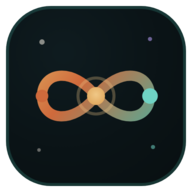
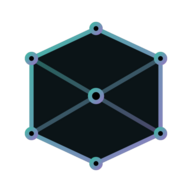
fix(brand): reemplaza lemniscata por isotipo Nómos, corrige bugs WCAG/SEO/tildes
- Sustituye icon.svg (lemniscata personal → hexágono § de Nómos)
- Copia brand assets eikon: favicon multi-size ICO (16/32/48/64), apple-touch-icon-180x180, favicon-32x32, icon-192 (192px), icon-512, og-image 1200×630
- Actualiza images/logo.png → lockup_horizontal Mouseîon (1.8 KB, desde 245 KB)
- Sincroniza assets b64 embebidos en api/index.py con nuevas imágenes de marca
- Añade rutas /site.webmanifest y /images/logo.png en api/index.py (fix 404 producción)
- Actualiza vercel.json regex para servir site.webmanifest, favicon-32x32.png y apple-touch-icon-180x180.png como estáticos
- Corrige tildes en templates: Cámara/Senado/País/Páginas/Institución/Aún/más/Filosofía/Ingeniería
- Corrige tildes en adapters.py: labels y campos institution/country de todas las fuentes
- Sustituye comentarios CSS "ScrapeKit Colombia" → "Nómos · Mouseîon"
- Fix focus ring: --ring: #43b5a6 → #1a5c54 (contraste 3.08:1 sobre #FBFAF6, pasa WCAG 2.4.7)
- Fix wordmark-tag: color opacidad 0.72 → full #43b5a6 (pasa WCAG AA ≥4.5:1)
- Añade text-decoration: underline a .search-result__title (WCAG 1.4.1)
- Corrige html lang="es" → lang="es-CO", og:locale es_ES → es_CO
- Añade dark mode CSS completo ([data-theme="dark"] + prefers-color-scheme)
- Añade og:image:type, og:image:secure_url, dimensiones 1200×630 (era 2400×1260)
- Añade twitter:site meta tag
- Añade JSON-LD SearchAction, datePublished/dateModified en SoftwareApplication
- Añade inLanguage="es-CO" en JSON-LD
[…]

diff --git a/templates/base.html b/templates/base.html
@@ -1,5 +1,5 @@
 <!DOCTYPE html>
-<html lang="es" data-theme="light">
+<html lang="es-CO" data-theme="light">
   <head>
     <meta charset="utf-8" />
     <meta name="viewport" content="width=device-width, initial-scale=1" />
@@ -12,20 +12,23 @@
     <!-- OpenGraph -->
     <meta property="og:type"        content="website" />
     <meta property="og:site_name"   content="Mouseîon" />
-    <meta property="og:locale"      content="es_ES" />
+    <meta property="og:locale"      content="es_CO" />
     <meta property="og:title"       content="{% block og_title %}Nómos — scraping de documentos legales · Mouseîon{% endblock %}" />
     <meta property="og:description" content="{% block og_description %}Indexador de PDFs legislativos de Colombia (Cámara, Senado y más). Motor de búsqueda de texto completo sobre legislación. Parte del ecosistema Mouseîon por Steven Vallejo.{% endblock %}" />
     <meta property="og:url"         content="{% block og_url %}https://nomos.stevenvallejo.com/{% endblock %}" />
-    <meta property="og:image"       content="https://nomos.stevenvallejo.com/og-image.png" />
-    <meta property="og:image:width"  content="2400" />
-    <meta property="og:image:height" content="1260" />
-    <meta property="og:image:alt"   content="Nómos — scraping de documentos legales · Mouseîon" />
+    <meta property="og:image"            content="https://nomos.stevenvallejo.com/og-image.png" />
+    <meta property="og:image:type"       content="image/png" />
+    <meta property="og:image:secure_url" content="https://nomos.stevenvallejo.com/og-image.png" />
+    <meta property="og:image:width"      content="1200" />
+    <meta property="og:image:height"     content="630" />
+    <meta property="og:image:alt"        content="Nómos — scraping de documentos legales · Mouseîon" />
 
     <!-- Twitter / X -->
     <meta name="twitter:card"        content="summary_large_image" />
     <meta name="twitter:title"       content="{% block twitter_title %}Nómos — scraping de documentos legales · Mouseîon{% endblock %}" />
     <meta name="twitter:description" content="{% block twitter_description %}Indexador de PDFs legislativos de Colombia. Motor de búsqueda de texto completo sobre legislación. Parte del ecosistema Mouseîon.{% endblock %}" />
     <meta name="twitter:image"       content="https://nomos.stevenvallejo.com/og-image.png" />
+    <meta name="twitter:site"        content="@stevenvo780" />
 
     <!-- JSON-LD Structured Data -->
     {% block jsonld %}
@@ -39,7 +42,15 @@
           "url": "https://nomos.stevenvallejo.com/",
           "name": "Nómos",
           "description": "Scraping de documentos legales — indexador de PDFs legislativos de Colombia y otros países.",
-          "inLanguage": "es",
+          "inLanguage": "es-CO",
+          "potentialAction": {
+            "@type": "SearchAction",
+            "target": {
+              "@type": "EntryPoint",
+              "urlTemplate": "https://nomos.stevenvallejo.com/api/search?q={search_term_string}"
+            },
+            "query-input": "required name=search_term_string"
+          },
           "isPartOf": {
             "@type": "WebSite",
             "name": "Mouseîon",
@@ -64,7 +75,9 @@
           "description": "Scraping de documentos legales — indexador de PDFs legislativos de Colombia (Cámara, Senado y más). Motor de búsqueda de texto completo sobre legislación.",
           "applicationCategory": "UtilitiesApplication",
           "operatingSystem": "Web",
-          "inLanguage": "es",
+          "inLanguage": "es-CO",
+          "datePublished": "2024-01-01",
+          "dateModified": "2026-06-01",
           "isPartOf": {
             "@type": "WebSite",
             "name": "Mouseîon",
@@ -88,18 +101,20 @@
 
     <!-- Favicons -->
     <link rel="icon" type="image/svg+xml" href="/icon.svg">
-    <link rel="icon" type="image/x-icon" href="/favicon.ico" sizes="any">
-    <link rel="icon" type="image/png" href="/favicon-32.png" sizes="32x32">
+    <link rel="icon" type="image/x-icon" href="/favicon.ico" sizes="16x16 32x32 48x48 64x64">
+    <link rel="icon" type="image/png" href="/favicon-32x32.png" sizes="32x32">
     <link rel="icon" type="image/png" href="/icon-512.png" sizes="512x512">
-    <link rel="apple-touch-icon" href="/apple-touch-icon.png">
+    <link rel="apple-touch-icon" sizes="180x180" href="/apple-touch-icon-180x180.png">
     <link rel="manifest" href="/site.webmanifest">
+    <!-- Preload above-the-fold logo -->
+    <link rel="preload" as="image" href="/images/logo.png">
     <link rel="preconnect" href="https://fonts.googleapis.com">
     <link rel="preconnect" href="https://fonts.gstatic.com" crossorigin>
     <link href="https://fonts.googleapis.com/css2?family=Inter:wght@400;500;600;700;800&family=JetBrains+Mono:wght@400;500&display=swap" rel="stylesheet">
     <title>{% block title %}Nómos — scraping de documentos legales · Mouseîon{% endblock %}</title>
     <style>
 /* =====================================================================
-   ScrapeKit Colombia — Brand tokens (light mode) — Cloud Atlas palette
+   Nómos · Mouseîon — Brand tokens (light mode) — Cloud Atlas palette
    ===================================================================== */
 [data-theme="light"] {
   --bg:             #FBFAF6;
@@ -115,15 +130,59 @@
   --accent-strong:  #7a4e0a;
   --on-accent:      #FFFFFF;
   --link:           #2b7a70;
-  --ring:           #43b5a6;
+  --ring:           #1a5c54;
   --success:        #2b7a70;
   --warning:        #92610A;
   --danger:         #B42318;
 }
 
 /* =====================================================================
-   ScrapeKit Colombia — main.css
-   Modo: light (data-theme="light" en <html>)
+   Nómos · Mouseîon — Dark mode tokens
+   ===================================================================== */
+[data-theme="dark"] {
+  --bg:             #0b1417;
+  --surface:        #131e22;
+  --surface-2:      #1a2a30;
+  --border:         #2a3d44;
+  --text:           #e8e0d4;
+  --text-muted:     #8fa3a8;
+  --primary:        #43b5a6;
+  --primary-strong: #3aa396;
+  --on-primary:     #0b1417;
+  --accent:         #e0a85e;
+  --accent-strong:  #cf6a3c;
+  --on-accent:      #0b1417;
+  --link:           #43b5a6;
+  --ring:           #43b5a6;
+  --success:        #43b5a6;
+  --warning:        #e0a85e;
+  --danger:         #f87171;
+}
+
+@media (prefers-color-scheme: dark) {
+  :root:not([data-theme="light"]) {
+    --bg:             #0b1417;
+    --surface:        #131e22;
+    --surface-2:      #1a2a30;
+    --border:         #2a3d44;
+    --text:           #e8e0d4;
+    --text-muted:     #8fa3a8;
+    --primary:        #43b5a6;
+    --primary-strong: #3aa396;
+    --on-primary:     #0b1417;
+    --accent:         #e0a85e;
+    --accent-strong:  #cf6a3c;
+    --on-accent:      #0b1417;
+    --link:           #43b5a6;
+    --ring:           #43b5a6;
+    --success:        #43b5a6;
+    --warning:        #e0a85e;
+    --danger:         #f87171;
+  }
+}
+
+/* =====================================================================
+   Nómos · Mouseîon — main.css
    Paleta: teal primario, dorado acento — brand-tokens canonicos.
    ===================================================================== */
 
@@ -195,10 +254,10 @@ body {
   font-size: 0.68rem;
   font-weight: 500;
   font-family: "JetBrains Mono", monospace;
-  color: rgba(67,181,166,0.72);
+  color: #43b5a6;
   letter-spacing: 0.04em;
   margin-left: 0.15rem;
-  -webkit-text-fill-color: rgba(67,181,166,0.72);
+  -webkit-text-fill-color: #43b5a6;
 }
 
 /* --- Header ------------------------------------------------------------ */
@@ -353,7 +412,7 @@ body {
   font-size: 1.02rem;
   font-weight: 600;
   color: var(--link);
-  text-decoration: none;
+  text-decoration: underline;
 }
 
 .search-result__title:hover {
@@ -580,8 +639,8 @@ body {
   <body>
     <div class="wordmark-bar">
       <div class="container">
-        <a class="wordmark-link" href="https://www.stevenvallejo.com" target="_blank" rel="noopener">
-          <img src="/images/logo.png" alt="Nómos" style="height: 26px; width: auto; flex-shrink: 0;">
+        <a class="wordmark-link" href="https://www.stevenvallejo.com" target="_blank" rel="noopener" aria-label="Mouseîon — catálogo de Steven Vallejo">
+          <img src="/images/logo.png" alt="" aria-hidden="true" style="height: 26px; width: auto; flex-shrink: 0;">
           <span class="wordmark-tag">Mouseîon</span>
         </a>
       </div>
@@ -589,7 +648,7 @@ body {
     <header class="header">
       <div class="container">
         <h1>Nómos</h1>
-        <p>Scraping de documentos legales &mdash; indexador de PDFs legislativos (Camara, Senado y mas).</p>
+        <p>Scraping de documentos legales &mdash; indexador de PDFs legislativos (Cámara, Senado y más).</p>
       </div>
     </header>
     <main class="container">
@@ -605,13 +664,13 @@ body {
         <div class="footer-ecosystem__inner">
           <span class="footer-ecosystem__label">Parte de <a href="https://www.stevenvallejo.com" target="_blank" rel="noopener" style="color:#43b5a6;text-decoration:none;font-weight:600;">Mouseîon</a> &mdash; por <a href="https://www.stevenvallejo.com" target="_blank" rel="noopener" style="color:rgba(243,236,224,0.72);text-decoration:none;">Steven Vallejo</a></span>
           <ul class="footer-ecosystem__links">
-            <li><a href="https://www.stevenvallejo.com/es#filosofia" target="_blank" rel="noopener">Filosofia</a></li>
+            <li><a href="https://www.stevenvallejo.com/es#filosofia" target="_blank" rel="noopener">Filosofía</a></li>
             <li><a href="https://www.stevenvallejo.com/es#ciencias" target="_blank" rel="noopener">Ciencias</a></li>
-            <li><a href="https://www.stevenvallejo.com/es#informatica" target="_blank" rel="noopener">Informatica</a></li>
-            <li><a href="https://www.stevenvallejo.com/es#ingenieria" target="_blank" rel="noopener">Ingenieria</a></li>
-            <li><a href="https://ergon.stevenvallejo.com" target="_blank" rel="noopener">Ergon</a></li>
-            <li><a href="https://chronos.stevenvallejo.com" target="_blank" rel="noopener">Chronos</a></li>
-            <li><a href="https://apotheke.stevenvallejo.com" target="_blank" rel="noopener">Apotheke</a></li>
+            <li><a href="https://www.stevenvallejo.com/es#informatica" target="_blank" rel="noopener">Informática</a></li>
+            <li><a href="https://www.stevenvallejo.com/es#ingenieria" target="_blank" rel="noopener">Ingeniería</a></li>
+            <li><a href="https://ergon.stevenvallejo.com" target="_blank" rel="noopener">Érgon</a></li>
+            <li><a href="https://chronos.stevenvallejo.com" target="_blank" rel="noopener">Chrónos</a></li>
+            <li><a href="https://apotheke.stevenvallejo.com" target="_blank" rel="noopener">Apothḗke</a></li>
           </ul>
         </div>
       </div>

diff --git a/templates/index.html b/templates/index.html
@@ -59,7 +59,7 @@
 <section class="card">
   <h2>Documentos indexados</h2>
   <p id="documents-empty" {% if documents %}style="display:none"{% endif %}>
-    Aun no hay documentos indexados.
+    Aún no hay documentos indexados.
   </p>
   <div class="table-container">
     <table class="table" id="documents-table" {% if not documents %}style="display:none"{% endif %}>
@@ -67,9 +67,9 @@
         <tr>
           <th>ID</th>
           <th>Fuente</th>
-          <th>Pais</th>
+          <th>País</th>
           <th>Archivo</th>
-          <th>Paginas</th>
+          <th>Páginas</th>
           <th>Procesado</th>
           <th></th>
         </tr>
@@ -253,7 +253,7 @@ function renderSearchResults(results, query) {
       `${result.country} - ${result.institution}`,
       formatDate(result.processed_at),
       `${result.matches} coincidencia${result.matches === 1 ? "" : "s"}`,
-      `${result.total_pages} paginas`,
+      `${result.total_pages} páginas`,
     ];
     metaTexts.forEach((text) => {
       const span = document.createElement("span");

diff --git a/templates/detail.html b/templates/detail.html
@@ -44,11 +44,11 @@
       <dd>{{ document.source_key }}</dd>
     </div>
     <div>
-      <dt>Pais</dt>
+      <dt>País</dt>
       <dd>{{ document.country }}</dd>
     </div>
     <div>
-      <dt>Institucion</dt>
+      <dt>Institución</dt>
       <dd>{{ document.institution }}</dd>
     </div>
     <div>
@@ -60,7 +60,7 @@
       <dd><code>{{ document.filename }}</code></dd>
     </div>
     <div>
-      <dt>Paginas</dt>
+      <dt>Páginas</dt>
       <dd>{{ document.total_pages }}</dd>
     </div>
     <div>

diff --git a/lib/adapters.py b/lib/adapters.py
@@ -1,14 +1,14 @@
 """
-Adaptadores de fuente para ScrapeKit Colombia.
+Adaptadores de fuente para Nómos · Mouseîon.
 
-Cada adaptador sabe como construir la URL de descarga de un documento
-a partir de un document_id. La abstraccion permite agregar nuevas fuentes
+Cada adaptador sabe cómo construir la URL de descarga de un documento
+a partir de un document_id. La abstracción permite agregar nuevas fuentes
 sin tocar el pipeline principal.
 
 Fuentes disponibles:
-  - colombia_camara     : Camara de Representantes de Colombia
-  - colombia_senado     : Senado de la Republica de Colombia
-  - dominicana_camara   : Camara de Diputados, Republica Dominicana (fuente original)
+  - colombia_camara     : Cámara de Representantes de Colombia
+  - colombia_senado     : Senado de la República de Colombia
+  - dominicana_camara   : Cámara de Diputados, República Dominicana (fuente original)
 """
 
 from __future__ import annotations
@@ -35,30 +35,30 @@ class SourceAdapter:
 ADAPTERS: Dict[str, SourceAdapter] = {
     "colombia_camara": SourceAdapter(
         key="colombia_camara",
-        label="Camara de Representantes de Colombia",
-        # El portal de la Camara expone PDFs de proyectos de ley y actas via este endpoint.
+        label="Cámara de Representantes de Colombia",
+        # El portal de la Cámara expone PDFs de proyectos de ley y actas vía este endpoint.
         # Formato: /documentos/descarga/{document_id} (redirige al PDF real).
         base_url="https://www.camara.gov.co/documentos/descarga",
         query_param="id",
         country="Colombia",
-        institution="Camara de Representantes",
+        institution="Cámara de Representantes",
     ),
     "colombia_senado": SourceAdapter(
         key="colombia_senado",
-        label="Senado de la Republica de Colombia",
+        label="Senado de la República de Colombia",
         # Portal Senado: endpoint de expedientes y actas.
         base_url="https://www.senado.gov.co/index.php/component/search",
         query_param="docId",
         country="Colombia",
-        institution="Senado de la Republica",
+        institution="Senado de la República",
     ),
     "dominicana_camara": SourceAdapter(
         key="dominicana_camara",
-        label="Camara de Diputados, Republica Dominicana",
+        label="Cámara de Diputados, República Dominicana",
         base_url="https://s-sil.camaradediputados.gob.do:8095/ReportesGenerales/VerDocumento",
         query_param="documentoId",
-        country="Republica Dominicana",
-        institution="Camara de Diputados",
+        country="República Dominicana",
+        institution="Cámara de Diputados",
     ),
 }
 

diff --git a/lib/exceptions.py b/lib/exceptions.py
@@ -2,7 +2,7 @@ from __future__ import annotations
 
 
 class ScrapekitError(Exception):
-    """Base para todos los errores de ScrapeKit."""
+    """Base para todos los errores de Nómos."""
 
 
 class DocumentNotFoundError(ScrapekitError):

diff --git a/lib/settings.py b/lib/settings.py
@@ -9,7 +9,7 @@ from pydantic_settings import BaseSettings, SettingsConfigDict
 
 class Settings(BaseSettings):
     """
-    Configuracion central de ScrapeKit Colombia.
+    Configuración central de Nómos · Mouseîon.
 
     Env vars leidas (con prefijo SCRAPEKIT_):
       SCRAPEKIT_DATABASE_URL  - Neon pooled URL (runtime)